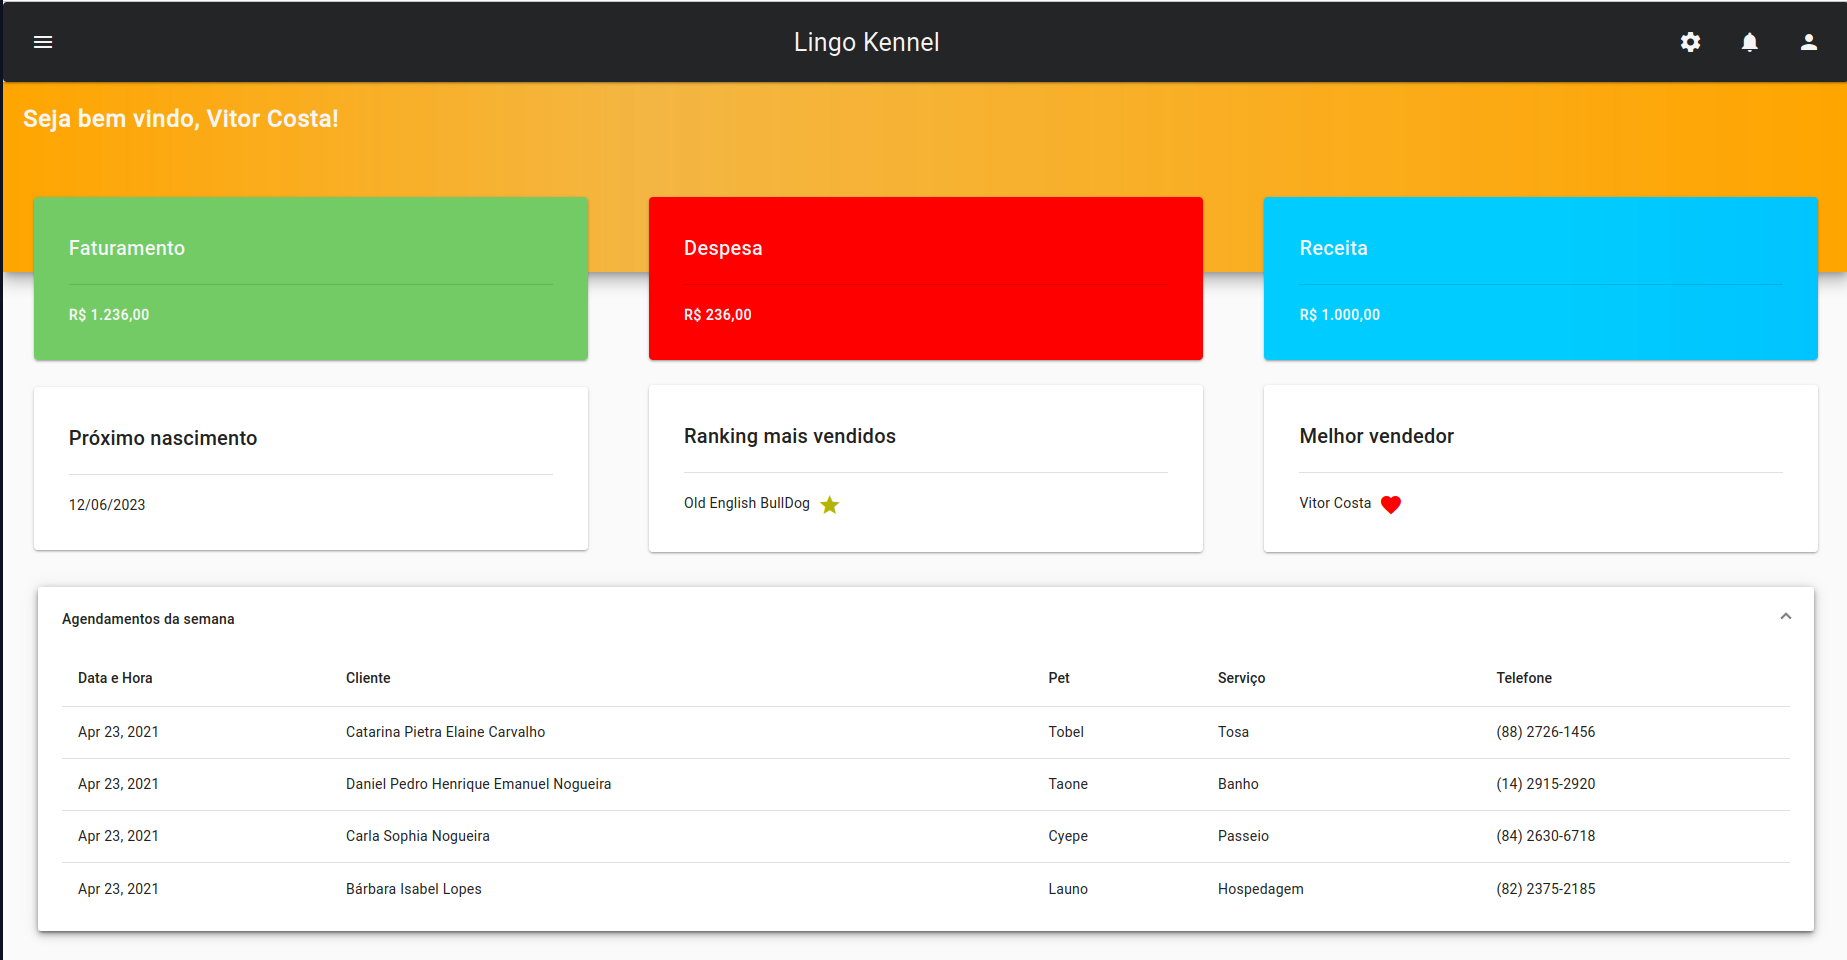
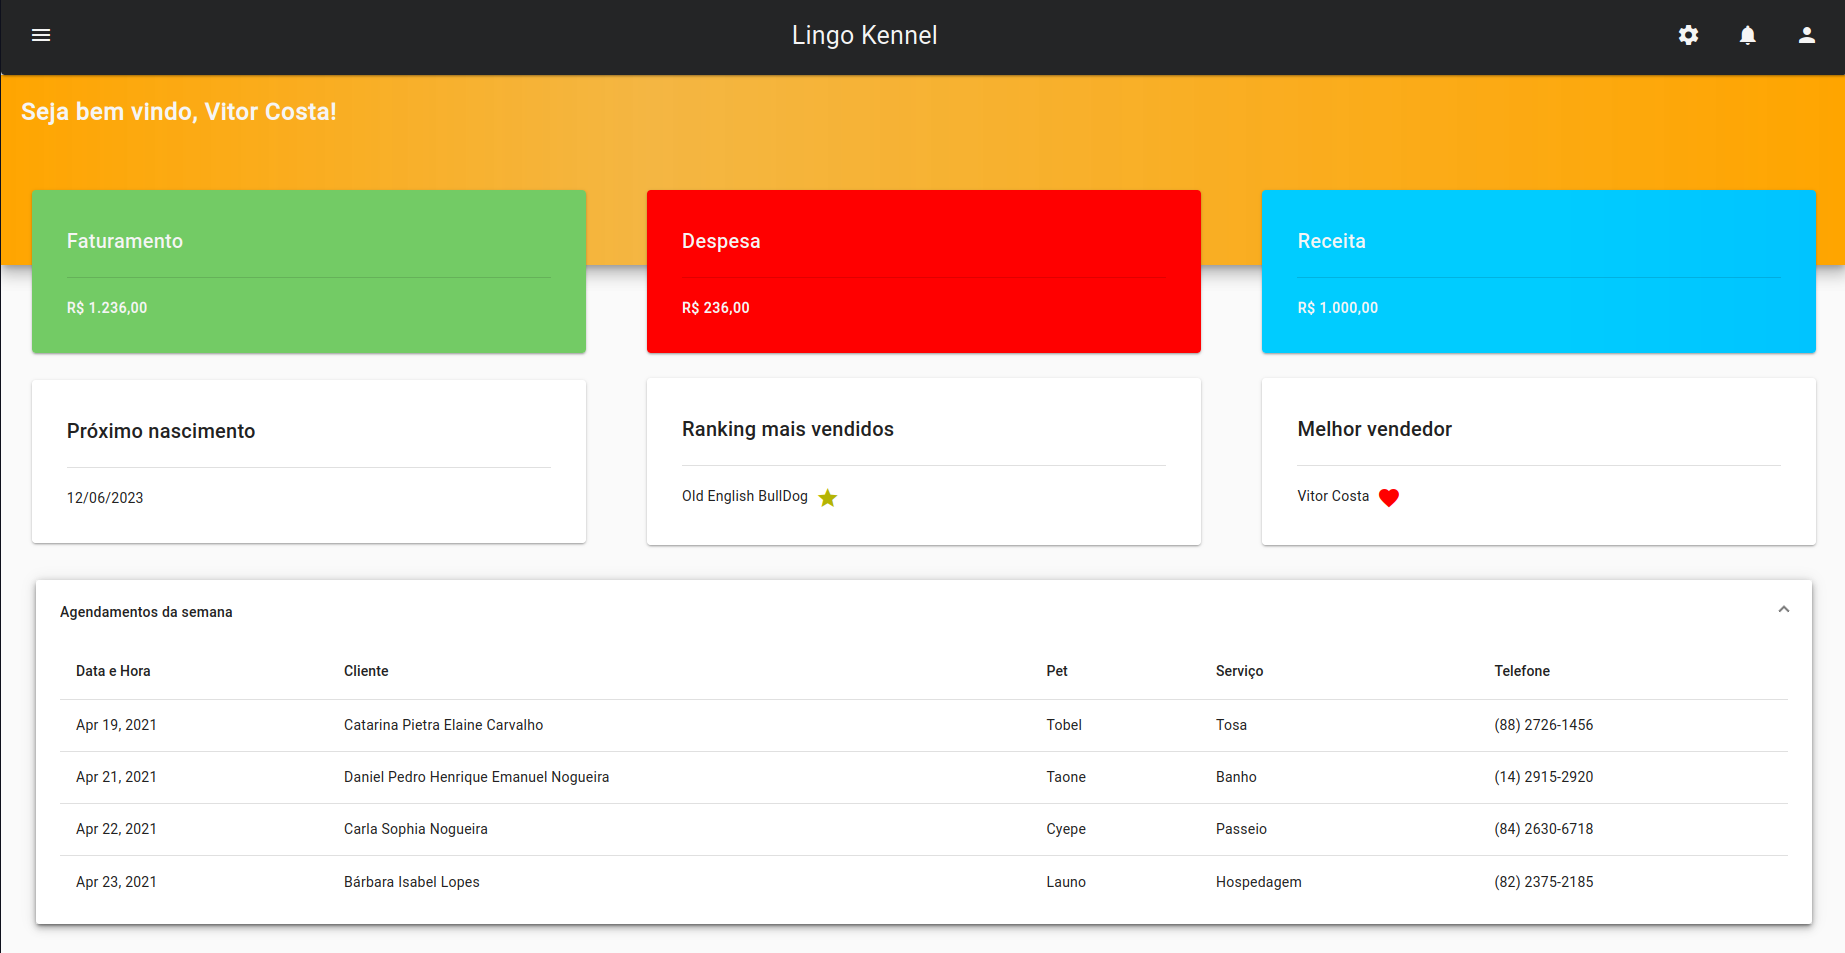
Clientes: Lista cadastro

diff --git a/src/app/components/pages/clientes/clientes.component.ts b/src/app/components/pages/clientes/clientes.component.ts
@@ -1,4 +1,27 @@
 import { Component } from '@angular/core';
+import {MatDialog, MatDialogRef} from '@angular/material/dialog';
+import { ClientesDialogComponent } from './clientes-dialog/clientes-dialog.component';
+
+export interface DespesaElement {
+  cliente: string;
+  localizacao: string;
+  email: string;
+  telefone: string;
+  telefone2: string;
+}
+
+const ELEMENT_DATA: DespesaElement[] = [
+  {cliente: 'Marcela Maya Luiza da Paz', localizacao: 'JD Nova Suiça, Limeira - SP', email: 'marcela.maya.dapaz@gilconsultoria.com.br', telefone: '(19) 2798-1019', telefone2: '(19) 98921-4502'},
+  {cliente: 'Marlene Nicole Eduarda Silva', localizacao: 'Barreiro, Belém - PA', email: 'marlene_silva@digen.com.br', telefone: '(91) 3733-2033', telefone2: '(91) 99573-4310'},
+  {cliente: 'Vera Emily Aparício', localizacao: 'Vila Buriti, Manaus - AM', email: 'vera_emily_aparicio@unianhanguera.edu.br', telefone: '(92) 2957-7625', telefone2: '(92) 99987-5946'},
+  {cliente: 'Cauê Daniel Carlos Moreira', localizacao: 'Guabiraba, Recife - PE', email: 'Cauê Daniel Carlos Moreira', telefone: '(81) 3854-2780', telefone2: '(81) 98678-8263'},
+  {cliente: 'Renan Danilo Aparício', localizacao: 'Centro, Vitória - ES', email: 'renan_danilo_aparicio@rgsa.com.br', telefone: '(27) 3630-8514', telefone2: '(27) 99225-1705'},
+  {cliente: 'Thomas Kauê Murilo da Rocha', localizacao: 'Inácio Barbosa, Aracaju - SE', email: 'thomas.kaue.darocha@coldblock.com.br', telefone: '(79) 2991-8241', telefone2: '(79) 98638-6652'},
+  {cliente: 'Lorenzo Raimundo Leandro da Mota', localizacao: 'Jardim Jacinto, Jacareí -SP', email: 'lorenzo_damota@huios.com.br', telefone: '(12) 3579-9327', telefone2: '(12) 99508-4456'},
+  {cliente: 'Henry Danilo Ramos', localizacao: 'Presidente Altino, Osasco - SP', email: 'henry.danilo.ramos@telefonica.com', telefone: '(11) 2815-4323', telefone2: '(11) 99141-2866'},
+  {cliente: 'Anderson Gustavo Cláudio da Rosa', localizacao: 'Vila Nova, Porto Alegre - RS', email: 'andersongustavodarosa@comercialrizzo.com', telefone: '(51) 3576-2809', telefone2: '(51) 99777-9529'},
+  {cliente: 'Gabriel Julio Geraldo Ramos', localizacao: 'Porto Novo, São Gonçalo - RJ', email: 'gabriel_julio_ramos@comercialrizzo.com', telefone: '(21) 2672-8344', telefone2: '(21) 99262-1519'},
+];
 
 @Component({
   selector: 'app-clientes',
@@ -6,5 +29,25 @@ import { Component } from '@angular/core';
   styleUrls: ['./clientes.component.scss']
 })
 export class ClientesComponent {
+  constructor(public dialog: MatDialog) {}
 
+  isActive = false;
+
+  openDialogCliente(enterAnimationDuration: string, exitAnimationDuration: string): void {
+    this.dialog.open(ClientesDialogComponent, {
+      width: '750px',
+      enterAnimationDuration,
+      exitAnimationDuration,
+    });
+  }
+
+  displayedColumns: string[] = [
+    'cliente',
+    'localizacao',
+    'email', 
+    'telefone',
+    'telefone2'
+  ];
+
+  dataSource = ELEMENT_DATA;
 }

diff --git a/src/app/components/pages/clientes/clientes.component.html b/src/app/components/pages/clientes/clientes.component.html
@@ -1,3 +1,47 @@
 <div class="container">
-    <h1>Clientes</h1>
+
+    <div fxLayout="row" fxLayoutAlign="space-between center" class="margin"> 
+        <h1>Clientes</h1>
+        <a mat-raised-button color="primary" (click)="openDialogCliente('500ms', '250ms')">Adicionar</a>
+    </div>
+
+    <mat-card class="mat-elevation-z8">
+        <table mat-table [dataSource]="dataSource" class="mat-elevation-z8">
+      
+            <!-- Coluna Cliente -->
+            <ng-container matColumnDef="cliente">
+              <th mat-header-cell *matHeaderCellDef> Cliente </th>
+              <td mat-cell *matCellDef="let element"> {{element.cliente}} </td>
+            </ng-container>
+          
+            <!-- Coluna Localizacao -->
+            <ng-container matColumnDef="localizacao">
+              <th mat-header-cell *matHeaderCellDef> Localizacao </th>
+              <td mat-cell *matCellDef="let element"> {{element.localizacao}} </td>
+            </ng-container>
+          
+            <!-- Coluna E-mail -->
+            <ng-container matColumnDef="email">
+              <th mat-header-cell *matHeaderCellDef> E-mail </th>
+              <td mat-cell *matCellDef="let element"> {{element.email}} </td>
+            </ng-container>
+
+             <!-- Coluna Telefone -->
+             <ng-container matColumnDef="telefone">
+              <th mat-header-cell *matHeaderCellDef> Telefone </th>
+              <td mat-cell *matCellDef="let element"> {{element.telefone}} </td>
+            </ng-container>
+
+             <!-- Coluna Telefone 2 -->
+             <ng-container matColumnDef="telefone2">
+              <th mat-header-cell *matHeaderCellDef> Telefone 2 </th>
+              <td mat-cell *matCellDef="let element"> {{element.telefone2}} </td>
+            </ng-container>
+              
+            <tr mat-header-row *matHeaderRowDef="displayedColumns"></tr>
+            <tr mat-row *matRowDef="let row; columns: displayedColumns;"></tr>
+          </table>
+          <mat-paginator [length]="200" [pageSizeOptions]="[10, 50, 100]" aria-label="Select page">
+        </mat-paginator>        
+    </mat-card>
 </div>

diff --git a/src/app/components/pages/dashboard/dashboard.component.ts b/src/app/components/pages/dashboard/dashboard.component.ts
@@ -14,9 +14,9 @@ export interface DespesaElement {
 }
 
 const ELEMENT_DATA: DespesaElement[] = [
-  {data: new Date('2021-04-23T10:00:00.000'), cliente: 'Catarina Pietra Elaine Carvalho', pet: 'Tobel', servico: 'Tosa', telefone: '(88) 2726-1456'},
-  {data: new  Date('2021-04-23T10:00:00.000'), cliente: 'Daniel Pedro Henrique Emanuel Nogueira', pet: 'Taone', servico: 'Banho', telefone: '(14) 2915-2920'},
-  {data: new Date('2021-04-23T10:00:00.000'), cliente: 'Carla Sophia Nogueira', pet: 'Cyepe', servico: 'Passeio', telefone: '(84) 2630-6718'},
+  {data: new Date('2021-04-19T10:00:00.000'), cliente: 'Catarina Pietra Elaine Carvalho', pet: 'Tobel', servico: 'Tosa', telefone: '(88) 2726-1456'},
+  {data: new  Date('2021-04-21T10:00:00.000'), cliente: 'Daniel Pedro Henrique Emanuel Nogueira', pet: 'Taone', servico: 'Banho', telefone: '(14) 2915-2920'},
+  {data: new Date('2021-04-22T10:00:00.000'), cliente: 'Carla Sophia Nogueira', pet: 'Cyepe', servico: 'Passeio', telefone: '(84) 2630-6718'},
   {data: new Date('2021-04-23T10:00:00.000'), cliente: 'Bárbara Isabel Lopes', pet: 'Launo', servico: 'Hospedagem', telefone: '(82) 2375-2185'},
 ];
 
@@ -63,6 +63,13 @@ export class DashboardComponent {
     });
   }
 
-  displayedColumns: string[] = ['data', 'cliente', 'pet', 'servico', 'telefone'];
+  displayedColumns: string[] = [
+    'data',
+    'cliente', 
+    'pet', 
+    'servico', 
+    'telefone'
+  ];
+  
   dataSource = ELEMENT_DATA;
 }

diff --git a/src/app/app.module.ts b/src/app/app.module.ts
@@ -25,6 +25,7 @@ import { OrdemServicoComponent } from './components/pages/ordem-servico/ordem-se
 import { EstoqueComponent } from './components/pages/estoque/estoque.component';
 import { AuditoriaComponent } from './components/pages/auditoria/auditoria.component';
 import { ProdutosDialogComponent } from './components/pages/produtos/dialog/produtos-dialog/produtos-dialog.component';
+import { ClientesDialogComponent } from './components/pages/clientes/clientes-dialog/clientes-dialog.component';
 
 @NgModule({
   declarations: [
@@ -48,7 +49,8 @@ import { ProdutosDialogComponent } from './components/pages/produtos/dialog/prod
     OrdemServicoComponent,
     EstoqueComponent,
     AuditoriaComponent,
-    ProdutosDialogComponent
+    ProdutosDialogComponent,
+    ClientesDialogComponent
   ],
   imports: [
     BrowserModule,

diff --git a/src/app/components/pages/clientes/clientes-dialog/clientes-dialog.component.spec.ts b/src/app/components/pages/clientes/clientes-dialog/clientes-dialog.component.spec.ts
@@ -1,0 +1,21 @@
+import { ComponentFixture, TestBed } from '@angular/core/testing';
+
+import { ClientesDialogComponent } from './clientes-dialog.component';
+
+describe('ClientesDialogComponent', () => {
+  let component: ClientesDialogComponent;
+  let fixture: ComponentFixture<ClientesDialogComponent>;
+
+  beforeEach(() => {
+    TestBed.configureTestingModule({
+      declarations: [ClientesDialogComponent]
+    });
+    fixture = TestBed.createComponent(ClientesDialogComponent);
+    component = fixture.componentInstance;
+    fixture.detectChanges();
+  });
+
+  it('should create', () => {
+    expect(component).toBeTruthy();
+  });
+});

diff --git a/src/app/components/pages/dashboard/dialog/faturamento/faturamento.component.ts b/src/app/components/pages/dashboard/dialog/faturamento/faturamento.component.ts
@@ -19,6 +19,11 @@ const ELEMENT_DATA: FaturamentoElement[] = [
   styleUrls: ['./faturamento.component.scss']
 })
 export class FaturamentoComponent {
-  displayedColumns: string[] = ['faturamento', 'descricao', 'Oservico'];
+  displayedColumns: string[] = [
+    'faturamento',
+    'descricao',
+    'Oservico'
+  ];
+  
   dataSource = ELEMENT_DATA;
 }

diff --git a/src/app/components/pages/dashboard/dialog/despesas/despesas.component.ts b/src/app/components/pages/dashboard/dialog/despesas/despesas.component.ts
@@ -20,6 +20,11 @@ const ELEMENT_DATA: DespesaElement[] = [
 })
 
 export class DespesasComponent {
-  displayedColumns: string[] = ['custo', 'descricao', 'Oservico'];
+  displayedColumns: string[] = [
+    'custo',
+    'descricao',
+    'Oservico'
+  ];
+  
   dataSource = ELEMENT_DATA;
 }

diff --git a/src/app/components/pages/clientes/clientes-dialog/clientes-dialog.component.ts b/src/app/components/pages/clientes/clientes-dialog/clientes-dialog.component.ts
@@ -1,0 +1,10 @@
+import { Component } from '@angular/core';
+
+@Component({
+  selector: 'app-clientes-dialog',
+  templateUrl: './clientes-dialog.component.html',
+  styleUrls: ['./clientes-dialog.component.scss']
+})
+export class ClientesDialogComponent {
+
+}

diff --git a/src/app/components/navegacao/navegacao.component.html b/src/app/components/navegacao/navegacao.component.html
@@ -18,7 +18,7 @@
         </div>
 
         <div class="page-item">
-            <a routerLink="/ordemServicos">Ordem de Serviço</a>
+            <a routerLink="/ordemServico">Ordem de Serviço</a>
         </div>
     </div>
 

diff --git a/src/app/app.component.scss b/src/app/app.component.scss
@@ -21,7 +21,7 @@ mat-card{
 }
 
 .sidenav{
-    width: 20%;
+    width: 300px;
     background-color: #242526;
     color: whitesmoke;
 }

diff --git a/src/app/components/pages/clientes/clientes.component.scss b/src/app/components/pages/clientes/clientes.component.scss
@@ -1,3 +1,8 @@
 .container{
     margin: 15px;
 }
+
+.margin{
+    margin-top: 25px;
+    margin-bottom: 25px;
+}

diff --git a/src/app/components/pages/clientes/clientes-dialog/clientes-dialog.component.html b/src/app/components/pages/clientes/clientes-dialog/clientes-dialog.component.html
@@ -1,0 +1,1 @@
+<p>clientes-dialog works!</p>
